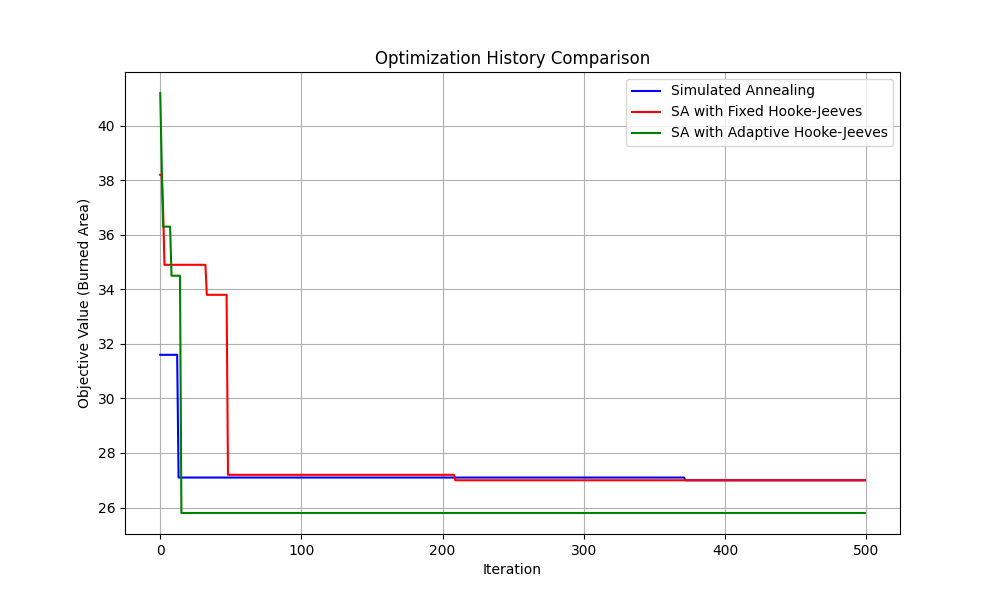
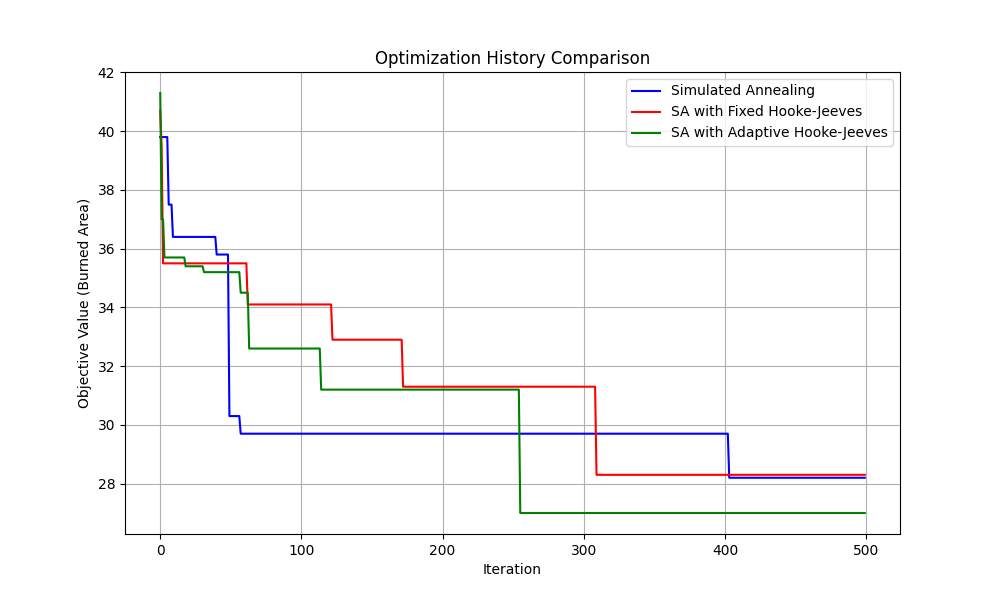
Final

diff --git a/main.py b/main.py
@@ -40,11 +40,31 @@ def plot_optimization_history(sa_history, fixed_hj_history, adaptive_hj_history,
     plt.savefig('optimization_history_comparison.png')
     plt.close()
 
+def plot_runtime_analysis(sa_time, fixed_hj_time, adaptive_hj_time):
+    # Bar plot for total runtime
+    plt.figure(figsize=(10, 6))
+    methods = ['SA', 'SA + Fixed HJ', 'SA + Adaptive HJ']
+    times = [sa_time, fixed_hj_time, adaptive_hj_time]
+    
+    plt.bar(methods, times)
+    plt.title('Total Runtime Comparison')
+    plt.ylabel('Runtime (seconds)')
+    plt.grid(True, axis='y')
+    
+    # Add value labels on top of bars
+    for i, v in enumerate(times):
+        plt.text(i, v, f'{v:.2f}s', ha='center', va='bottom')
+    
+    plt.savefig('runtime_comparison.png')
+    plt.close()
+
 def SA_training(env, barrier, seeds, action_sequence, HJ, fixed, adaptive):
     best_sa_result = float('inf')
     best_sa_barriers = None
     best_sa_env = None
     best_obj_history = None
+    iteration_times = []  # Track time per iteration
+    
     print("\nRunning SA on multiple seeds:")
     for seed in seeds:
         print(f"\nRunning SA with seed {seed}")
@@ -54,14 +74,17 @@ def SA_training(env, barrier, seeds, action_sequence, HJ, fixed, adaptive):
     
         # Run SA (Adjust hyper parameters)
         # Get one SA solution per seed
+        iter_start_time = time.time()
         SA_barriers, current_obj_history = barrier.simulated_annealing(
             HJ,
             fixed,
             adaptive,
-            temperature=1.0,
-            cooling_rate=0.999,
+            temperature=0.5,
+            cooling_rate=0.995,
             kmax=500,
         )
+        iter_time = time.time() - iter_start_time
+        iteration_times.append(iter_time)
 
         # Run multiple trials to get average performance, for each seed
         trial_results = []
@@ -79,6 +102,7 @@ def SA_training(env, barrier, seeds, action_sequence, HJ, fixed, adaptive):
         avg_performance = sum(trial_results) / len(trial_results)
         print(f"Seed {seed} average performance: {avg_performance:.2f}")
         print(f"Individual trial results: {trial_results}")
+        print(f"Runtime for this seed: {iter_time:.2f} seconds")
 
         # Keep track of best solution
         if avg_performance < best_sa_result:
@@ -96,38 +120,8 @@ def SA_training(env, barrier, seeds, action_sequence, HJ, fixed, adaptive):
             )
     
     print(f"\nBest SA solution found (average across trials): {best_sa_result:.2f}")
+    print(f"Average runtime per seed: {sum(iteration_times)/len(iteration_times):.2f} seconds")
     return best_sa_barriers, best_sa_env, best_obj_history
-
-"""def random_baseline_eval(barrier, base_env, seeds, action_sequence, num_random=10):
-    performances = []
-    best_performance = float('inf')
-    best_env = None
-    best_barriers = None
-    
-    for i in range(num_random):
-        print(f"\nEvaluating random barrier config {i+1}/{num_random}")
-        rand_barriers = random_barriers(barrier)
-        print(rand_barriers)
-        rand_env = WildfireEvacuationEnv(
-            num_rows=base_env.num_rows,
-            num_cols=base_env.num_cols,
-            populated_areas=base_env.populated_areas,
-            paths=base_env.paths,
-            paths_to_pops=base_env.paths_to_pops,
-            barriers=rand_barriers
-        )
-        seed_results = evaluation(rand_env, seeds, rand_barriers, action_sequence)
-        mean = np.mean(seed_results)
-        performances.append(mean)
-        print(f"Random Config {i+1} mean burned area: {mean:.2f}")
-        
-        # Track best solution
-        if mean < best_performance:
-            best_performance = mean
-            best_env = rand_env
-            best_barriers = rand_barriers
-    
-    return  seed_results, performances, best_barriers, best_env"""
     
 
 def evaluation(env, model, seeds, barriers, num_trials=10):
@@ -162,7 +156,7 @@ def evaluation(env, model, seeds, barriers, num_trials=10):
         print(f"Individual trial results: {trial_results}")
     return seed_results
 
-def render_best_solution(env, seeds, model):
+def render_best_solution(env, evaluation_seeds, model):
     """Render the best solution for visualization using the best seed"""
     print("\nRendering best solution...")
     
@@ -171,7 +165,7 @@ def render_best_solution(env, seeds, model):
     best_performance = float('inf')
     
     print("Finding best seed...")
-    for seed in seeds:
+    for seed in evaluation_seeds:
         obs, _ = env.reset(seed=seed)
         env.apply_barriers()
         
@@ -221,7 +215,8 @@ def main():
     args = parser.parse_args()
 
     # Run SA over several seeds
-    seeds = [42, 123, 456, 789, 101]  # Different seeds to test
+    training_seeds = [42, 123, 456, 789, 101]  # Seeds for training
+    evaluation_seeds = [111, 222, 333, 444, 555]  # Different seeds for evaluation
     best_sa_result = float('inf')
     best_sa_barriers = None
     
@@ -284,7 +279,7 @@ def main():
         # Train DQN directly on the environment
         dqn_model = train_dqn_policy(rand_env, total_timesteps=20000)
         evaluate_dqn_policy(dqn_model, rand_env)
-        seed_results = evaluation(rand_env, dqn_model, seeds, random_barrier_set)
+        seed_results = evaluation(rand_env, dqn_model, evaluation_seeds, random_barrier_set)
         
         # Print overall results
         print("\nRandom Results:")
@@ -293,7 +288,7 @@ def main():
         print(f"Min: {min(seed_results):.2f}, Max: {max(seed_results):.2f}")
 
         if args.render:
-            render_best_solution(rand_env, seeds, dqn_model)
+            render_best_solution(rand_env, evaluation_seeds, dqn_model)
         del dqn_model
 
     if args.SA: 
@@ -302,7 +297,7 @@ def main():
         HJ = False
         fixed = False
         adaptive = False
-        best_sa_barriers, best_sa_env, sa_history = SA_training(base_env, barrier, seeds, action_sequence, HJ, fixed, adaptive)
+        best_sa_barriers, best_sa_env, sa_history = SA_training(base_env, barrier, training_seeds, action_sequence, HJ, fixed, adaptive)
         sa_time = time.time() - start_time
         print(f"\nSA runtime: {sa_time:.2f} seconds")
 
@@ -311,21 +306,24 @@ def main():
         HJ = True
         fixed = True
         adaptive = False
-        best_sa_fixed_hj_barriers, best_sa_fixed_hj_env, fixed_hj_history = SA_training(base_env, barrier, seeds, action_sequence, HJ, fixed, adaptive)
+        best_sa_fixed_hj_barriers, best_sa_fixed_hj_env, fixed_hj_history = SA_training(base_env, barrier, training_seeds, action_sequence, HJ, fixed, adaptive)
         fixed_hj_time = time.time() - start_time
         print(f"\nSA with Fixed Hooke-Jeeves runtime: {fixed_hj_time:.2f} seconds")
-
+        
         # Run SA with Adaptive HJ
         start_time = time.time()
         HJ = True
         fixed = False
         adaptive = True
-        best_sa_adaptive_hj_barriers, best_sa_adaptive_hj_env, adaptive_hj_history = SA_training(base_env, barrier, seeds, action_sequence, HJ, fixed, adaptive)
+        best_sa_adaptive_hj_barriers, best_sa_adaptive_hj_env, adaptive_hj_history = SA_training(base_env, barrier, training_seeds, action_sequence, HJ, fixed, adaptive)
         adaptive_hj_time = time.time() - start_time
-        print(f"\nSA with Adaptive Hooke-Jeeves runtime: {adaptive_hj_time:.2f} seconds")
+        print(f"\SA with Adaptive Hooke-Jeeves runtime: {adaptive_hj_time:.2f} seconds")
 
-        # Plot all three histories together
+        # Plot optimization history
         plot_optimization_history(sa_history, fixed_hj_history, adaptive_hj_history, 500)
+        
+        # Plot runtime analysis
+        plot_runtime_analysis(sa_time, fixed_hj_time, adaptive_hj_time)
 
         # Find the best solution among all three methods
         final_values = {
@@ -352,7 +350,7 @@ def main():
         evaluate_dqn_policy(dqn_model, best_sa_env)
 
         # Evaluate best SA barriers
-        seed_results = evaluation(best_sa_env, dqn_model, seeds, best_sa_barriers)
+        seed_results = evaluation(best_sa_env, dqn_model, evaluation_seeds, best_sa_barriers)
         
         # Print overall results
         print("\nSA Results:")
@@ -361,7 +359,7 @@ def main():
         print(f"Min: {min(seed_results):.2f}, Max: {max(seed_results):.2f}")
         
         if args.render:
-            render_best_solution(best_sa_env, seeds, dqn_model)
+            render_best_solution(best_sa_env, evaluation_seeds, dqn_model)
         del dqn_model
 
 

diff --git a/src/environment/barriers.py b/src/environment/barriers.py
@@ -3,8 +3,6 @@ import numpy as np
 import pyrorl
 import random
 import torch
-SEED = 42
-
 
 class Barriers():
     def __init__(self, env, paths, populated_areas, num_barriers):
@@ -78,12 +76,10 @@ class Barriers():
         F = wildfire_env.objective(init_barriers)
         best_b, best_F = init_barriers, F
         best_random_states = (np_rng_state, random_rng_state, torch_rng_state)
-        best_F_history = []  # Initialize with first value
+        best_F_history = []  
         patience = 50 # tune this
-        T_threshold = 0.1 # Tune this
+        T_threshold = 0.07 # Tune this
         no_improvement = 0
-
-        print(f"Using Hooke-Jeeves? {HJ}")
 
         for k in range(kmax):
             print("Current iteration: ", k)
@@ -95,32 +91,40 @@ class Barriers():
                     barriers_prime = wildfire_env.propose(best_b, HJ)
             elif HJ and adaptive:
                 if (no_improvement > patience) or (temperature < T_threshold):
+                    no_improvement = 0  # Reset for new HJ attempt
                     barriers_prime = wildfire_env.propose(best_b, HJ)
             else:
                 # Run SA without hooke keeves
                 barriers_prime = wildfire_env.propose(best_b, HJ=False)
             
             F_prime = wildfire_env.objective(barriers_prime)
-
             score_diff = F_prime - best_F
-
-            if score_diff <= 0 or np.random.rand() < np.exp(-score_diff / temperature):
+            # Check if we accept the solution in SA
+            accept_solution = score_diff <= 0 or np.random.rand() < np.exp(-score_diff / temperature)
+            
+            if accept_solution:
                 self.barriers = barriers_prime
                 F = F_prime
-                
+                # If we accepted a better solution, reset no_improvement
+                if score_diff < 0:
+                    no_improvement = 0
+                else:
+                    no_improvement += 1
+            else:
+                # If we rejected the solution, increment no_improvement
+                no_improvement += 1
+            print("value of no improvement: ", no_improvement, "\n")
             if F_prime < best_F:
-                # If better solution found, update no improvement 
-                no_improvement = 0
+                # If better solution found, update best solution
                 best_b, best_F = barriers_prime, F_prime
                 # Save random states when we find a better solution
                 best_random_states = (np.random.get_state(), random.getstate(), torch.get_rng_state())
-            else: 
-                # If no better solution found, increment no improvement
-                no_improvement += 1
+            
             # Track the current best value for every iteration
             best_F_history.append(best_F)
             temperature *= cooling_rate
-            
+            if k > 450:
+                print("temperature: ", temperature, "\n")
         # Restore the random states that produced the best solution
         np.random.set_state(best_random_states[0])
         random.setstate(best_random_states[1])
@@ -158,14 +162,11 @@ class Barriers():
         # Randomly choose barrier states
         while len(self.barriers) < self.num_barriers:
             # Randomly choose a barrier state
-            # REPLACE THIS WITH SIMULATEAD ANNEALING 
             barrier = tuple(np.random.randint(0, [cols, rows])) # Should produce a cell (x, y) in the environment
             # Check if the barrier is not in the populated areas
             if (not np.any(np.all(barrier == invalid_cells, axis=1))) and (barrier not in self.barriers):
                 # Set the fuel index to 0 for that cell
-                #print("Fuel index before: ", state_space[1][barrier[1]][barrier[0]])
                 state_space[1][barrier[0]][barrier[1]] = 0  # 1 = FUEL_INDEX
-                #print("Fuel index after: ", state_space[1][barrier[1]][barrier[0]])
 
                 # Add the barrier to the set of barriers
                 self.barriers.add(barrier) 

diff --git a/src/pyrorl_custom/pyro_custom.py b/src/pyrorl_custom/pyro_custom.py
@@ -2,7 +2,6 @@
 OpenAI Gym Environment Wrapper Class
 """
 from src.environment.environment_custom import FireWorld
-#from pyrorl.envs.environment.environment import FireWorld
 from src.environment.barriers import Barriers
 import gymnasium as gym
 from gymnasium import spaces
@@ -61,7 +60,6 @@ class WildfireEvacuationEnv(gym.Env):
         self.fire_propagation_rate = fire_propagation_rate
         self.skip = skip
         self.objective_cache = {}  # Cache for objective values
-        # self.evaluation_history = []  # Track all evaluations for plotting
 
         self.fire_env = FireWorld(
             num_rows,
@@ -119,13 +117,6 @@ class WildfireEvacuationEnv(gym.Env):
             fuel_stdev=self.fuel_stdev,
             fire_propagation_rate=self.fire_propagation_rate,
         )
-        """barrier_manager = Barriers(
-            env=self.fire_env, paths=self.paths,
-            populated_areas=self.populated_areas,
-            num_barriers=5          
-        )
-        # Run with random placement of barriers
-        self.barriers = barrier_manager.add_barrier()"""
         self.apply_barriers()
 
         state_space = self.fire_env.get_state()
@@ -306,14 +297,6 @@ class WildfireEvacuationEnv(gym.Env):
     
     def objective(self, barriers, trials=10):
         # Convert barriers set to frozenset for hashing
-        """barriers_key = frozenset(barriers)
-        
-        # Check if result is in cache
-        if barriers_key in self.objective_cache:
-            result = self.objective_cache[barriers_key]
-            #self.evaluation_history.append(result)  # Track even cached evaluations
-            return result"""
-            
         results = []
         for _ in range(trials):
             self.reset()
@@ -325,9 +308,6 @@ class WildfireEvacuationEnv(gym.Env):
         
         avg_result = sum(results) / len(results)
         
-        # Store result in cache and track evaluation
-        #self.objective_cache[barriers_key] = avg_result
-        #self.evaluation_history.append(avg_result)
         return avg_result
     
     def exploration(self, point):
@@ -354,9 +334,6 @@ class WildfireEvacuationEnv(gym.Env):
         return tuple(new_point)
 
     def hooke_jeeves(self, B_prime, valid_cells):
-        #
-        # print(f"Trying HJ for B_prime: {B_prime}")
-
         # Use Hooke-Jeeves to find the least effective barrier to remove
         worst_barrier = None
         worst_objective = float('-inf')
@@ -389,7 +366,6 @@ class WildfireEvacuationEnv(gym.Env):
         if best_new_point is None:
             print(f"No better point found, keeping original point {worst_barrier}")
             B_prime.add(worst_barrier)
-            #return worst_barrier
         else:
             B_prime.add(best_new_point)
             
@@ -412,12 +388,8 @@ class WildfireEvacuationEnv(gym.Env):
 
         if not valid_cells:
             raise RuntimeError("No valid cells available for new barriers.")
-        #("Using HJ proposal" if HJ else "Using random proposal")
 
         if HJ:
-            """best_new_barrier = self.hooke_jeeves(B_prime, valid_cells)
-            best_new_barrier = (np.int64(best_new_barrier[0]), np.int64(best_new_barrier[1]))
-            B_prime.add(best_new_barrier)"""
             return self.hooke_jeeves(B_prime, valid_cells)
         else:
             # Random selection for both removal and placement
